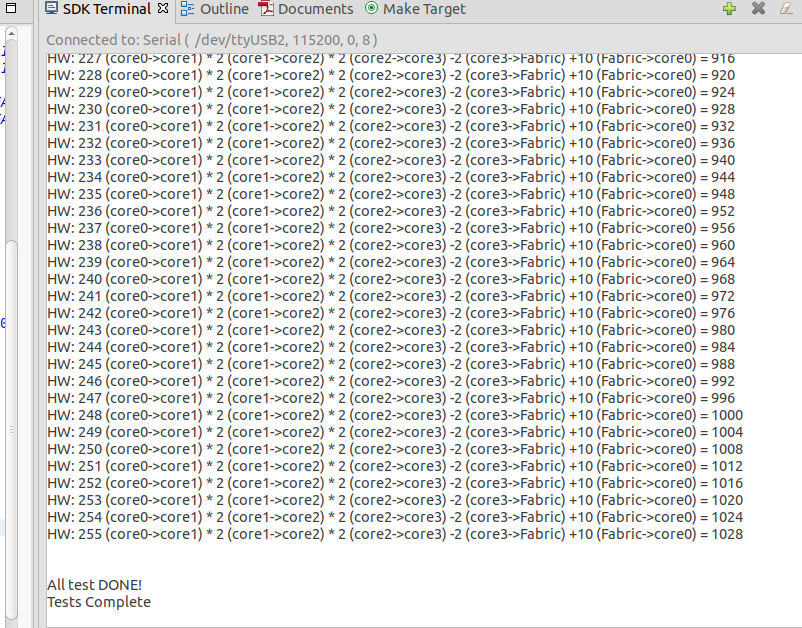
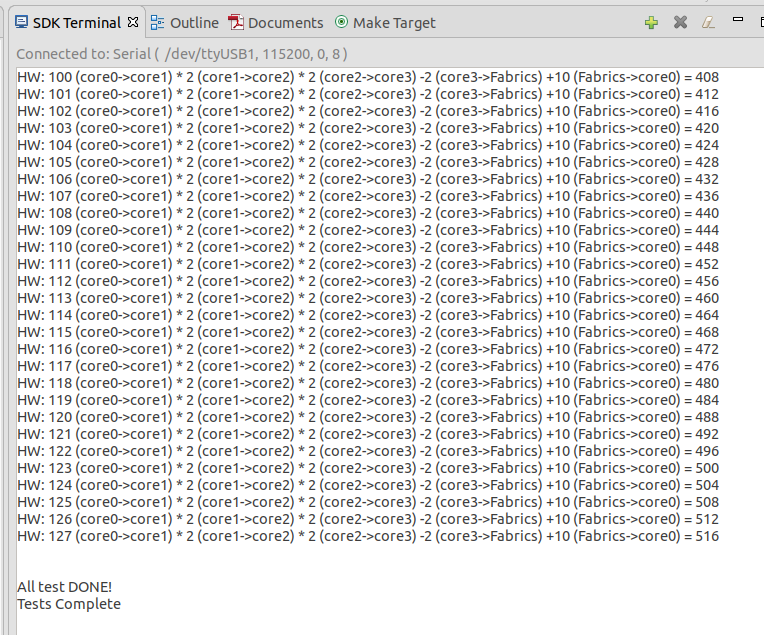
update readme for tutorial 3

diff --git a/c_src/core3/kernel3.cc b/c_src/core3/kernel3.cc
@@ -11,7 +11,7 @@
 #include "xtime_l.h"
 #include "xstatus.h"
 #include "xil_mmu.h"
-
+#include "sleep.h"
 //#define AP
 //#include "ap_int.h"
 // filter hidden pixels
@@ -22,7 +22,7 @@ uint8_t perf = 0;
 void kernel_pl_mix( pr_flow::memory_t mem )
 {
 	int i=0;
-	unsigned int data;
+	uint64_t data;
 	pr_flow::stream Core3_sw2( pr_flow::stream_id_t::STREAM_ID_2, pr_flow::direction_t::SW_SHARED,pr_flow::width_t::U32_BITS, pr_flow::axi_port_t::HP0,mem );
 	pr_flow::stream Core3_sw3( pr_flow::stream_id_t::STREAM_ID_3, pr_flow::direction_t::SW_SHARED,pr_flow::width_t::U32_BITS, pr_flow::axi_port_t::HP0,mem );
 
@@ -32,12 +32,12 @@ void kernel_pl_mix( pr_flow::memory_t mem )
 
 	synchronize();
 
-	for(i=0; i<DATA_BYTE_SIZE/4; i++){
+	for(i=0; i<DATA_BYTE_SIZE/8; i++){
 		data = STREAM_READ(Core3_sw2);
 		STREAM_WRITE(Core3_sw3, data-2);
 	}
 
-	for(i=0; i<DATA_BYTE_SIZE/4; i++){
+	for(i=0; i<DATA_BYTE_SIZE/8; i++){
 		data = STREAM_READ(Core3_hw_rx2);
 		STREAM_WRITE(Core3_hw_tx3, data-2);
 	}
@@ -50,4 +50,27 @@ void kernel_pl_mix( pr_flow::memory_t mem )
     shutdown_ip(perf);
 
 }
+
+void kernel_pl_sw_hw( pr_flow::memory_t mem )
+{
+	int i=0;
+	uint64_t data;
+	pr_flow::stream Core3_sw2( pr_flow::stream_id_t::STREAM_ID_2, pr_flow::direction_t::SW_SHARED,pr_flow::width_t::U32_BITS, pr_flow::axi_port_t::HP0,mem );
+	pr_flow::stream Core3_sw3( pr_flow::stream_id_t::STREAM_ID_3, pr_flow::direction_t::SW_SHARED,pr_flow::width_t::U32_BITS, pr_flow::axi_port_t::HP0,mem );
+
+	pr_flow::stream Core3_hw_rx2( pr_flow::stream_id_t::STREAM_ID_2, pr_flow::direction_t::RX,pr_flow::width_t::U32_BITS, pr_flow::axi_port_t::HP0,mem );
+	pr_flow::stream Core3_hw_tx3( pr_flow::stream_id_t::STREAM_ID_3, pr_flow::direction_t::TX,pr_flow::width_t::U32_BITS, pr_flow::axi_port_t::HP0,mem );
+
+
+	synchronize();
+	sleep(1);
+
+
+	synchronize();
+
+    //
+    shutdown_ip(perf);
+
+}
+
 

diff --git a/c_src/core2/kernel2.cc b/c_src/core2/kernel2.cc
@@ -11,7 +11,7 @@
 #include "xtime_l.h"
 #include "xstatus.h"
 #include "xil_mmu.h"
-
+#include "sleep.h"
 
 #define DATA_BYTE_SIZE 1024
 
@@ -20,7 +20,7 @@ void kernel_pl_mix( pr_flow::memory_t mem )
 
 
 	int i=0;
-	unsigned int data;
+	uint64_t data;
 	pr_flow::stream Core2_sw1( pr_flow::stream_id_t::STREAM_ID_1, pr_flow::direction_t::SW_SHARED,pr_flow::width_t::U32_BITS, pr_flow::axi_port_t::HP0,mem );
 	pr_flow::stream Core2_sw2( pr_flow::stream_id_t::STREAM_ID_2, pr_flow::direction_t::SW_SHARED,pr_flow::width_t::U32_BITS, pr_flow::axi_port_t::HP0,mem );
 
@@ -31,15 +31,40 @@ void kernel_pl_mix( pr_flow::memory_t mem )
 
 	synchronize();
 
-	for(i=0; i<DATA_BYTE_SIZE/4; i++){
+	for(i=0; i<DATA_BYTE_SIZE/8; i++){
 		data = STREAM_READ(Core2_sw1);
 		STREAM_WRITE(Core2_sw2, data*2);
 	}
 
-	for(i=0; i<DATA_BYTE_SIZE/4; i++){
+	for(i=0; i<DATA_BYTE_SIZE/8; i++){
 		data = STREAM_READ(Core2_hw_rx1);
 		STREAM_WRITE(Core2_hw_tx2, data*2);
 	}
+
+	synchronize();
+
+    //
+    //shutdown_ip(perf);
+
+}
+
+void kernel_pl_sw_hw( pr_flow::memory_t mem )
+{
+
+
+	int i=0;
+	uint64_t data;
+	pr_flow::stream Core2_sw1( pr_flow::stream_id_t::STREAM_ID_1, pr_flow::direction_t::SW_SHARED,pr_flow::width_t::U32_BITS, pr_flow::axi_port_t::HP0,mem );
+	pr_flow::stream Core2_sw2( pr_flow::stream_id_t::STREAM_ID_2, pr_flow::direction_t::SW_SHARED,pr_flow::width_t::U32_BITS, pr_flow::axi_port_t::HP0,mem );
+
+	pr_flow::stream Core2_hw_rx1( pr_flow::stream_id_t::STREAM_ID_1, pr_flow::direction_t::RX,pr_flow::width_t::U32_BITS, pr_flow::axi_port_t::HP0,mem );
+	pr_flow::stream Core2_hw_tx2( pr_flow::stream_id_t::STREAM_ID_2, pr_flow::direction_t::TX,pr_flow::width_t::U32_BITS, pr_flow::axi_port_t::HP0,mem );
+
+
+
+	synchronize();
+
+	sleep(1);
 
 	synchronize();
 

diff --git a/c_src/core0/kernel0.cc b/c_src/core0/kernel0.cc
@@ -14,9 +14,9 @@
 
 uint8_t perf = 0;
 
-#define DATA_BYTE_SIZE 1024000
+#define DATA_BYTE_SIZE 1024
 
-uint64_t receive_data[DATA_BYTE_SIZE/4];
+uint64_t receive_data[DATA_BYTE_SIZE/8];
 
 int kernel_pl_mix( pr_flow::memory_t mem )
 {
@@ -30,23 +30,24 @@ int kernel_pl_mix( pr_flow::memory_t mem )
 	synchronize();
 	Core0_hw_tx0.start_stream();
 
+
 	printf("SW streams test begins!\n");
-	for(i=0; i<DATA_BYTE_SIZE/4; i++){
+	for(i=0; i<DATA_BYTE_SIZE/8; i++){
 		STREAM_WRITE(Core0_sw0, i);
 		receive_data[i] = STREAM_READ(Core0_sw3);
 	}
 
-	for(i=0; i<DATA_BYTE_SIZE/4; i++){
+	for(i=0; i<DATA_BYTE_SIZE/8; i++){
 		printf("SW: %d (core0->core1) * 2 (core1->core2) * 2 (core2->core3) -2 (core3->core0) = %d\n", i, receive_data[i]);
 	}
 
 	printf("\n\n\nHW streams test begins!\n");
-	for(i=0; i<DATA_BYTE_SIZE/4; i++){
+	for(i=0; i<DATA_BYTE_SIZE/8; i++){
 		STREAM_WRITE(Core0_hw_tx0, i);
 		receive_data[i] = STREAM_READ(Core0_hw_rx3);
 	}
 
-	for(i=0; i<DATA_BYTE_SIZE/4; i++){
+	for(i=0; i<DATA_BYTE_SIZE/8; i++){
 		printf("HW: %d (core0->core1) * 2 (core1->core2) * 2 (core2->core3) -2 (core3->Fabrics) +10 (Fabrics->core0) = %d\n", i, receive_data[i]);
 	}
 
@@ -82,7 +83,7 @@ int kernel_pl_sw( pr_flow::memory_t mem )
 	XTime_GetTime(&timer_start);
 	*ptr = timer_start;
 
-	for(i=0; i<DATA_BYTE_SIZE/4; i++){
+	for(i=0; i<DATA_BYTE_SIZE/8; i++){
 		uint64_t tmp;
 		tmp = (((uint64_t)i)<<32) | (uint64_t)i;
 		STREAM_WRITE(Core0_sw0, tmp);
@@ -120,7 +121,7 @@ int kernel_pl_hw( pr_flow::memory_t mem )
 	XTime_GetTime(&timer_start);
 	*ptr = timer_start;
 
-	for(i=0; i<DATA_BYTE_SIZE/4; i++){
+	for(i=0; i<DATA_BYTE_SIZE/8; i++){
 		uint64_t tmp;
 		tmp = (((uint64_t)i)<<32) | (uint64_t)i;
 

diff --git a/c_src/core1/kernel1.cc b/c_src/core1/kernel1.cc
@@ -21,14 +21,14 @@
 
 
 uint8_t perf = 0;
-#define DATA_BYTE_SIZE 1024000
+#define DATA_BYTE_SIZE 1024
 
 
 
 void kernel_pl_mix( pr_flow::memory_t mem )
 {
 	int i=0;
-	unsigned int data;
+	uint64_t data;
 	pr_flow::stream Core1_sw0( pr_flow::stream_id_t::STREAM_ID_0, pr_flow::direction_t::SW_SHARED,pr_flow::width_t::U32_BITS, pr_flow::axi_port_t::HP0,mem );
 	pr_flow::stream Core1_sw1( pr_flow::stream_id_t::STREAM_ID_1, pr_flow::direction_t::SW_SHARED,pr_flow::width_t::U32_BITS, pr_flow::axi_port_t::HP0,mem );
 
@@ -37,12 +37,12 @@ void kernel_pl_mix( pr_flow::memory_t mem )
 
 	synchronize();
 	Core1_hw_rx0.start_stream();
-	for(i=0; i<DATA_BYTE_SIZE/4; i++){
+	for(i=0; i<DATA_BYTE_SIZE/8; i++){
 		data = STREAM_READ(Core1_sw0);
 		STREAM_WRITE(Core1_sw1, data*2);
 	}
 
-	for(i=0; i<DATA_BYTE_SIZE/4; i++){
+	for(i=0; i<DATA_BYTE_SIZE/8; i++){
 		data = STREAM_READ(Core1_hw_rx0);
 		STREAM_WRITE(Core1_hw_tx1, data*2);
 	}
@@ -72,7 +72,7 @@ void kernel_pl_sw( pr_flow::memory_t mem )
 
 	synchronize();
 	Core1_hw_rx0.start_stream();
-	for(i=0; i<DATA_BYTE_SIZE/4; i++){
+	for(i=0; i<DATA_BYTE_SIZE/8; i++){
 		//printf("We recieve");
 		data = STREAM_READ(Core1_sw0);
 		//printf("%08x_%08x\n", data>>32, data);
@@ -115,7 +115,7 @@ void kernel_pl_hw( pr_flow::memory_t mem )
 
 	synchronize();
 	Core1_hw_rx0.start_stream();
-	for(i=0; i<DATA_BYTE_SIZE/4; i++){
+	for(i=0; i<DATA_BYTE_SIZE/8; i++){
 		//printf("We recieve");
 		data = STREAM_READ(Core1_hw_rx0);
 		//printf("%08x_%08x\n", data>>32, data);

diff --git a/c_src/core3/typedefs.h b/c_src/core3/typedefs.h
@@ -8,8 +8,9 @@
 
 #ifndef __TYPEDEFS_H__
 #define __TYPEDEFS_H__
-
-
+#define CIRCLE 1
+#define SW_THP 2
+#define HW_THP 3
 /// macro wrappers for hw sw
 #ifdef HW
 	#define STREAM hls::stream<ap_uint<32> >
@@ -20,14 +21,16 @@
 	#define STREAM_READ( stream )(\
 	{							 \
 	pr_flow::wide_t temp; 		 \
+	uint64_t out;				\
 	stream.read(&temp); 		 \
-	temp.lower_32;					 \
+	out = ((((uint64_t)temp.mid_lo_32)<<32) | ((uint64_t)temp.lower_32));\
+	out;					 \
 	})
 	#define STREAM_WRITE( stream,value )(\
 	{							 \
 	pr_flow::wide_t temp; 		 \
-	temp.lower_32 = value;			 \
-	temp.upper_32 = 0;			     \
+	temp.lower_32 = value & 0xffffffff; \
+	temp.mid_lo_32 = ((uint64_t)value >>32) & 0xffffffff;		\
 	stream.write(temp); 	 	 \
 	})
 #endif

diff --git a/c_src/core2/typedefs.h b/c_src/core2/typedefs.h
@@ -9,8 +9,9 @@
 #ifndef __TYPEDEFS_H__
 #define __TYPEDEFS_H__
 
-
-
+#define CIRCLE 1
+#define SW_THP 2
+#define HW_THP 3
 
 
 /// macro wrappers for hw sw
@@ -23,14 +24,16 @@
 	#define STREAM_READ( stream )(\
 	{							 \
 	pr_flow::wide_t temp; 		 \
+	uint64_t out;				\
 	stream.read(&temp); 		 \
-	temp.lower_32;					 \
+	out = ((((uint64_t)temp.mid_lo_32)<<32) | ((uint64_t)temp.lower_32));\
+	out;					 \
 	})
 	#define STREAM_WRITE( stream,value )(\
 	{							 \
 	pr_flow::wide_t temp; 		 \
-	temp.lower_32 = value;			 \
-	temp.upper_32 = 0;			     \
+	temp.lower_32 = value & 0xffffffff; \
+	temp.mid_lo_32 = ((uint64_t)value >>32) & 0xffffffff;		\
 	stream.write(temp); 	 	 \
 	})
 #endif

diff --git a/c_src/core2/main.cc b/c_src/core2/main.cc
@@ -51,17 +51,24 @@
 #include "Overlays/mmu.h"
 #include "xtime_l.h"
 #include "sleep.h"
-
+#include "typedefs.h"
 #include "kernel2.h"
 #include "Overlays/user_configs.h"
-#define TESTS 10
+
+#define TEST_MODE CIRCLE
+//#define TEST_MODE SW_THP
+//#define TEST_MODE HW_THP
 
 int main()
 {
 	//sleep(5);
 	init();
 
+#if (TEST_MODE == CIRCLE)
     kernel_pl_mix( pr_flow::RR_CACHE );
+#else
+    kernel_pl_sw_hw( pr_flow::RR_CACHE );
+#endif
 
     return 0;
 }

diff --git a/c_src/core3/main.cc b/c_src/core3/main.cc
@@ -52,17 +52,23 @@
 #include "Overlays/mmu.h"
 #include "xtime_l.h"
 #include "sleep.h"
-
+#include "typedefs.h"
 #include "kernel3.h"
 #include "Overlays/user_configs.h"
-#define TESTS 10
+
+#define TEST_MODE CIRCLE
+//#define TEST_MODE SW_THP
+//#define TEST_MODE HW_THP
 
 int main()
 {
 	//sleep(5);
 	init();
-
+#if (TEST_MODE == CIRCLE)
     kernel_pl_mix( pr_flow::RR_CACHE );
+#else
+    kernel_pl_sw_hw( pr_flow::RR_CACHE );
+#endif
 
     return 0;
 }

diff --git a/c_src/core1/main.cc b/c_src/core1/main.cc
@@ -55,9 +55,9 @@
 #include "typedefs.h"
 #include "kernel1.h"
 
-//#define TEST_MODE CIRCLE
+#define TEST_MODE CIRCLE
 //#define TEST_MODE SW_THP
-#define TEST_MODE HW_THP
+//#define TEST_MODE HW_THP
 
 int main()
 {

diff --git a/c_src/core0/main.cc b/c_src/core0/main.cc
@@ -60,9 +60,9 @@
 
 
 
-//#define TEST_MODE CIRCLE
+#define TEST_MODE CIRCLE
 //#define TEST_MODE SW_THP
-#define TEST_MODE HW_THP
+//#define TEST_MODE HW_THP
 
 int main()
 {

diff --git a/c_src/core2/kernel2.h b/c_src/core2/kernel2.h
@@ -2,5 +2,6 @@
 #define __RENDER_H__
 
 void kernel_pl_mix( pr_flow::memory_t mem );
+void kernel_pl_sw_hw( pr_flow::memory_t mem );
 
 #endif

diff --git a/c_src/core3/kernel3.h b/c_src/core3/kernel3.h
@@ -2,5 +2,6 @@
 #define __RENDER_H__
 
 void kernel_pl_mix( pr_flow::memory_t mem );
+void kernel_pl_sw_hw( pr_flow::memory_t mem );
 
 #endif
